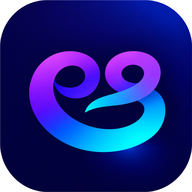
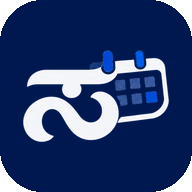
minor changes 2

diff --git a/src/app/login/page.tsx b/src/app/login/page.tsx
@@ -11,7 +11,7 @@ export default function LoginPage() {
   return (
     <main className="workbench-scale grid min-h-screen bg-surface lg:grid-cols-[1.05fr_.95fr]">
       <section className="hidden bg-primary-deep p-12 text-on-deep lg:flex lg:flex-col">
-        <Logo onDark className="h-9" />
+        <Logo onDark className="h-12" />
         <div className="my-auto max-w-lg">
           <p className="text-sm font-medium tracking-[0.08em] text-on-deep-accent">
             CLARITY · FOCUS · STRUCTURE · PROGRESS
@@ -45,7 +45,7 @@ export default function LoginPage() {
         </div>
         <div className="w-full max-w-md">
           <div className="mb-12 lg:hidden">
-            <Logo className="h-8" />
+            <Logo className="h-10" />
           </div>
           <Suspense>
             <AuthForm />

diff --git a/src/components/shell/sidebar.tsx b/src/components/shell/sidebar.tsx
@@ -174,7 +174,7 @@ export function Sidebar({
           }`}
         >
           <Link href={workspacePath(workspace.key)} className={rail} onClick={onClose}>
-            <Logo className="h-[24px]" />
+            <Logo className="h-[30px]" />
           </Link>
           {collapsed && (
             /* eslint-disable-next-line @next/next/no-img-element -- static brand icon */

diff --git a/scripts/brand-assets.py b/scripts/brand-assets.py
@@ -1,0 +1,159 @@
+#!/usr/bin/env python3
+"""
+Regenerates every brand image from the source artwork in src/assets/logo.png
+(full-color logo on a white background). Run after changing that file:
+
+    python3 scripts/brand-assets.py          (needs Pillow: pip install pillow)
+
+Writes:
+  public/brand/logo.png        logo for light surfaces (transparent background)
+  public/brand/logo-dark.png   logo for dark surfaces: navy and the superscript in white,
+                               the blue calendar accents kept
+  public/brand/icon-*.png      app icons (16, 32, 48, 180, 192, 512, maskable 512) from the
+                               mark (the symbol left of the wordmark) on a navy tile
+  src/app/favicon.ico          16/32/48 favicon
+"""
+from pathlib import Path
+
+from PIL import Image, ImageDraw
+
+ROOT = Path(__file__).resolve().parent.parent
+SOURCE = ROOT / 'src/assets/logo.png'
+BRAND = ROOT / 'public/brand'
+WHITE = (246, 247, 251)
+
+FLOOR = 0.07  # background noise below this opacity is dropped
+
+
+def smooth(t: float) -> float:
+    return 0.0 if t <= 0 else 1.0 if t >= 1 else t * t * (3 - 2 * t)
+
+
+def separate(image: Image.Image):
+    """
+    Color-to-alpha against white: each pixel keeps its color but loses the white it was
+    mixed with, so anti-aliased edges work on any background. Returns (light, dark) RGBA
+    images: dark has navy turned white (smoothly, no speckles) and pale tints made more
+    opaque so the light-blue calendar squares still read on dark backgrounds.
+    """
+    rgb = image.convert('RGB')
+    w, h = rgb.size
+    src = rgb.load()
+    light, dark = Image.new('RGBA', (w, h)), Image.new('RGBA', (w, h))
+    lp, dp = light.load(), dark.load()
+    for y in range(h):
+        for x in range(w):
+            r, g, b = src[x, y]
+            raw = max(255 - r, 255 - g, 255 - b) / 255
+            if raw <= FLOOR:
+                lp[x, y] = dp[x, y] = (0, 0, 0, 0)
+                continue
+            unmix = [max(0, min(255, round((c - (1 - raw) * 255) / raw))) for c in (r, g, b)]
+            alpha = min(1.0, (raw - FLOOR) / (1 - FLOOR))
+            lp[x, y] = (*unmix, round(alpha * 255))
+            # Navy (luminance ~30) -> white, blended between 40 and 70; blue (~90) stays.
+            lum = 0.2126 * unmix[0] + 0.7152 * unmix[1] + 0.0722 * unmix[2]
+            t = smooth((70 - lum) / 30)
+            color = [round(c + (wc - c) * t) for c, wc in zip(unmix, WHITE)]
+            dark_alpha = alpha
+            if t < 0.5 and raw < 0.4:  # pale tints: more opaque, a bit lighter
+                dark_alpha = min(1.0, alpha * 3)
+                color = [round(c + (wc - c) * 0.35) for c, wc in zip(color, WHITE)]
+            dp[x, y] = (*color, round(dark_alpha * 255))
+    return light, dark
+
+
+def column_runs(image: Image.Image, top: int, bottom: int, min_gap: int):
+    """Horizontal extents of the shapes in rows [top, bottom), split by empty columns."""
+    alpha = image.getchannel('A').load()
+    w = image.size[0]
+    filled = [any(alpha[x, y] > 40 for y in range(top, bottom)) for x in range(w)]
+    runs, start, gap = [], None, 0
+    for x, on in enumerate(filled):
+        if on:
+            if start is None:
+                start = x
+            gap = 0
+        elif start is not None:
+            gap += 1
+            if gap >= min_gap:
+                runs.append((start, x - gap + 1))
+                start, gap = None, 0
+    if start is not None:
+        runs.append((start, w))
+    return runs
+
+
+def whiten_superscript(dark: Image.Image):
+    """The superscript (the shape right of the closing bracket, in the top half) -> white."""
+    w, h = dark.size
+    top_half = column_runs(dark, 0, h // 2, min_gap=4)
+    x0, x1 = top_half[-1]
+    pixels = dark.load()
+    for y in range(h):
+        for x in range(x0, x1):
+            r, g, b, a = pixels[x, y]
+            if a:
+                pixels[x, y] = (*WHITE, a)
+
+
+def navy_of(light: Image.Image):
+    """The logo's navy: the most common clearly-dark opaque color."""
+    counts = {}
+    for r, g, b, a in light.getdata():
+        if a > 240 and 0.2126 * r + 0.7152 * g + 0.0722 * b < 60:
+            key = (r // 4 * 4, g // 4 * 4, b // 4 * 4)
+            counts[key] = counts.get(key, 0) + 1
+    return max(counts, key=counts.get) if counts else (12, 30, 78)
+
+
+def tile(mark: Image.Image, size: int, navy, padding: float, rounded: bool):
+    """The mark centered on a navy square (rounded for browser tabs, full-bleed otherwise)."""
+    canvas = Image.new('RGBA', (size, size), (0, 0, 0, 0))
+    background = Image.new('RGBA', (size, size), (*navy, 255))
+    shape = Image.new('L', (size, size), 0)
+    radius = round(size * 0.22) if rounded else 0
+    ImageDraw.Draw(shape).rounded_rectangle((0, 0, size - 1, size - 1), radius=radius, fill=255)
+    canvas.paste(background, (0, 0), shape)
+    room = round(size * (1 - 2 * padding))
+    scale = min(room / mark.size[0], room / mark.size[1])
+    scaled = mark.resize((max(1, round(mark.size[0] * scale)), max(1, round(mark.size[1] * scale))), Image.LANCZOS)
+    canvas.alpha_composite(scaled, ((size - scaled.size[0]) // 2, (size - scaled.size[1]) // 2))
+    return canvas
+
+
+def main():
+    light, dark = separate(Image.open(SOURCE))
+    left, top, right, bottom = light.getbbox()
+    pad = 6
+    box = (max(0, left - pad), max(0, top - pad), min(light.size[0], right + pad), min(light.size[1], bottom + pad))
+    light, dark = light.crop(box), dark.crop(box)
+    whiten_superscript(dark)
+    light.save(BRAND / 'logo.png', optimize=True)
+    dark.save(BRAND / 'logo-dark.png', optimize=True)
+
+    # The mark: the first shape group from the left (the symbol before the wordmark).
+    w, h = dark.size
+    x0, x1 = column_runs(dark, 0, h, min_gap=12)[0]
+    mark = dark.crop((x0, 0, x1, h))
+    mark = mark.crop(mark.getbbox())
+    navy = navy_of(light)
+
+    for size in (16, 32, 48, 192, 512):
+        tile(mark, size, navy, padding=0.12 if size >= 48 else 0.08, rounded=True).save(
+            BRAND / f'icon-{size}.png', optimize=True
+        )
+    # iOS rounds the corners itself and wants an opaque square.
+    tile(mark, 180, navy, padding=0.14, rounded=False).save(BRAND / 'icon-180.png', optimize=True)
+    # Android adaptive icons crop to a circle: keep the mark inside the 80% safe zone.
+    tile(mark, 512, navy, padding=0.22, rounded=False).convert('RGB').save(
+        BRAND / 'icon-maskable-512.png', optimize=True
+    )
+    tile(mark, 256, navy, padding=0.08, rounded=True).save(
+        ROOT / 'src/app/favicon.ico', sizes=[(16, 16), (32, 32), (48, 48)]
+    )
+    print(f'logo {light.size}, mark {mark.size}, navy {navy}')
+
+
+if __name__ == '__main__':
+    main()
